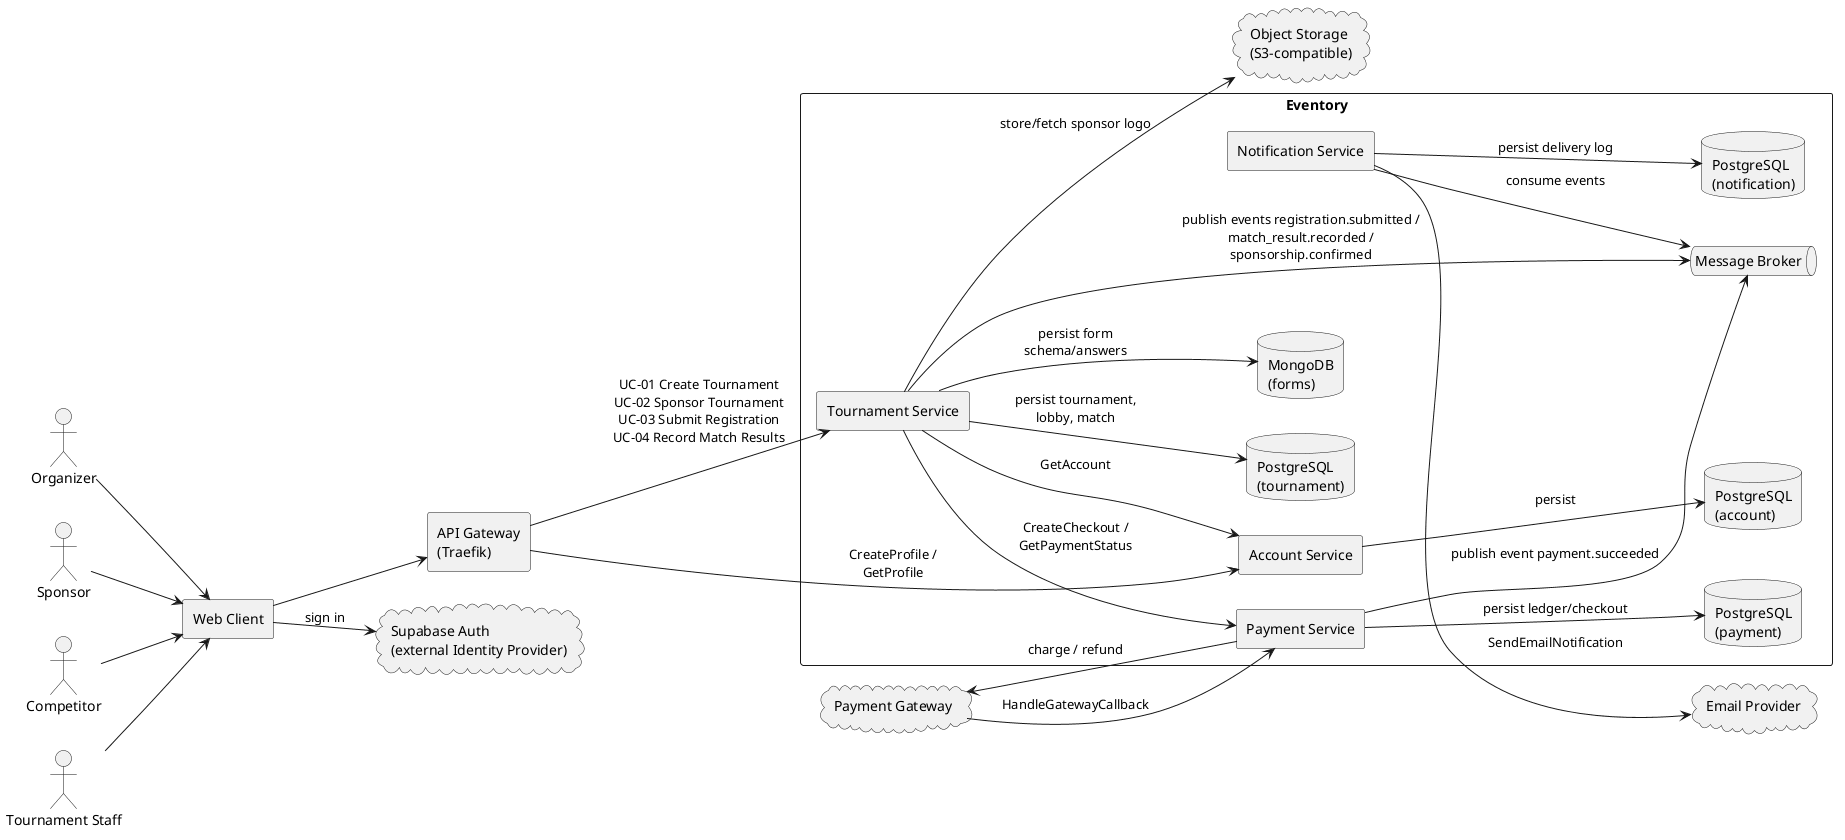
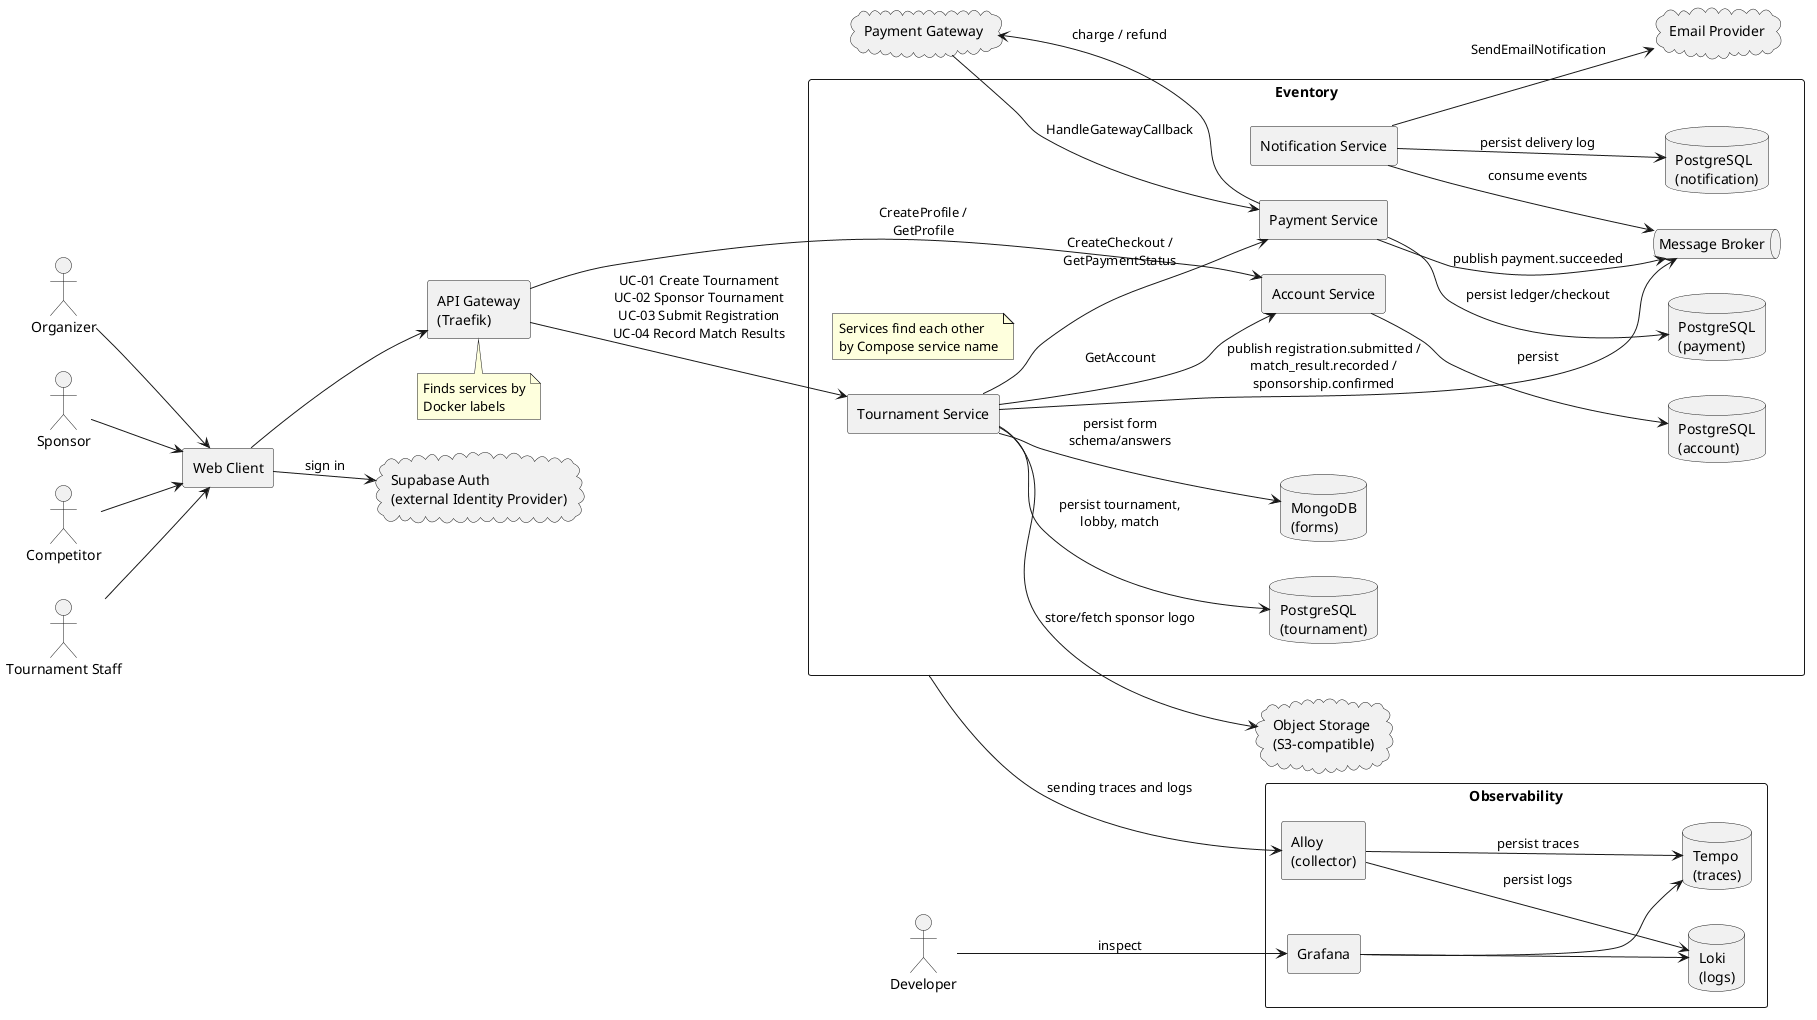
docs(arch): update architecture docs for Project Progress 3 (#250)
* docs(arch): docs(arch): add observability NFR and fix use case wording

* docs(arch): delete docs/arch/project-proposal-draft.md

* docs(arch): add ADR 12 and 13

* docs(arch): update architecture diagram

diff --git a/docs/arch/project-description.md b/docs/arch/project-description.md
@@ -16,7 +16,7 @@ Eventory
 
 Running a tournament today splits work across many tools: organizers post rules and brackets in chat apps or social media, collect entries with forms and spreadsheets, chase payments over bank transfer, and update results by hand. Competitors hunt for events, join teams, and submit forms in different places. Sponsors have no shared place to pick a package, pay, and see their support shown on the event.
 
-Eventory puts those flows on one platform. An organizer creates a tournament (with optional crowdfunding before open registration) and a registration form. A sponsor pledges a package, pays, and appears on the tournament page as funding progresses. A team captain locks the roster, pays any entry fee, and submits the registration. Match results are recorded on the same tournament so standings stay visible in one place.
+Eventory puts those flows on one platform. An organizer creates a tournament (with optional crowdfunding before open registration) and a registration form. A sponsor pledges a package, pays, and appears on the tournament page as funding progresses. A team captain locks the roster, pays any entry fee, and submits the registration. Match results are recorded in the same tournament so standings stay visible in one place.
 
 ## Target Customers
 
@@ -42,7 +42,7 @@ Eventory puts those flows on one platform. An organizer creates a tournament (wi
    - Optionally enables crowdfunding (funding goal, deadline, sponsorship packages/tiers).
    - Configures the custom registration form (fields such as text, dropdown, file upload).
    - May update crowdfunding and the form again while the tournament is still a draft.
-4. When ready, organizer opens the tournament for sponsorship and/or competitor registration.
+4. When ready, the organizer opens the tournament for sponsorship and/or competitor registration.
 
 **Postcondition**: A tournament exists with its registration form configured and is open according to the organizer’s chosen path.
 
@@ -67,7 +67,7 @@ Eventory puts those flows on one platform. An organizer creates a tournament (wi
 1. Sponsor opens the tournament page and reviews available sponsorship packages/tiers and funding progress.
 2. Sponsor selects a package, uploads brand logo (and link if required), and starts checkout.
 3. System processes payment via the payment gateway.
-4. On success, system records the pledge, updates funding progress, and shows the sponsor (e.g. logo) on the tournament page.
+4. On success, the system records the pledge, updates funding progress, and shows the sponsor (e.g. logo) on the tournament page.
 
 **Postcondition**: A confirmed sponsorship exists; funding progress and public sponsor display are updated.
 
@@ -93,7 +93,7 @@ Eventory puts those flows on one platform. An organizer creates a tournament (wi
    - **2a. Solo**: Competitor fills the tournament registration form and proceeds to pay entry fee if any.
    - **2b. Team**: Team members join the captain’s lobby via invite and fill in their individual registration forms. When the roster meets tournament size rules, the Team Captain locks the roster and pays the team entry fee if any.
 3. System processes payment when required (payment gateway).
-4. On success, system submits the registration to the organizer for review/acceptance and confirms to the competitor.
+4. On success, the system submits the registration to the organizer for review/acceptance and confirms to the competitor.
 
 **Postcondition**: A registration entry exists and is visible to the organizer for review.
 
@@ -194,3 +194,7 @@ FR14 is for Solo, FR15-18 for Team, and FR19-20 are shared.
 ### Performance
 
 - NFR8: Under normal course-demo load, the system shall complete competitor registration confirmation with p95 latency under 3 seconds, excluding external payment-gateway processing time.
+
+### Observability
+
+- NFR9: When a request passes through the API gateway, the system shall record one trace linking the gateway, service, and database spans, and the log entry for that request shall carry the same trace ID.

diff --git a/docs/arch/adrs/13_observability-stack.md b/docs/arch/adrs/13_observability-stack.md
@@ -1,0 +1,43 @@
+# ADR-13: Observability Stack
+
+## Context
+
+A request now crosses the gateway, several services, and their databases (ADR-01, ADR-05, ADR-07). When something is slow or fails, the symptom often appears in a different service than the cause, and per-container logs cannot show the whole path. The stack must fit single VM and should not tie our instrumentation to one backend.
+
+Options considered:
+
+- **Grafana stack (Loki, Tempo, Grafana, Alloy) with OpenTelemetry**: low memory use, one UI for logs and traces, trace-to-log links, OTLP is a standard. Several moving parts to configure.
+- **Elastic stack (Elasticsearch, Kibana, APM)**: mature and full-featured, but Elasticsearch needs far more memory than our VM budget allows.
+- **Jaeger and Prometheus with a separate log tool**: each tool is good alone, but logs and traces live in different UIs with no built-in correlation.
+- **Managed SaaS (Grafana Cloud, Datadog)**: no servers to run, but sends data off the host, adds an external dependency and a cost.
+- **Logs only**: simplest, but cannot show a request across services.
+
+## Decision
+
+Use the **Grafana stack with OpenTelemetry**.
+
+- Services emit OpenTelemetry traces to a collector (**Alloy**) that stores them in **Tempo**; Alloy also collects container logs into **Loki**. **Grafana** is the single UI for both.
+- Trace context travels with every call, whether HTTP, gRPC, or a broker message, so one request is one trace from the gateway down to the databases.
+- Log entries carry the trace ID, so a trace and its logs can be opened from each other.
+- Only Grafana is exposed outside the Compose network, behind its own login. Data is kept briefly (72 hours) to fit the VM.
+
+## Status
+
+Accepted
+
+## Consequences
+
+**Positive**
+
+- One trace shows gateway, services, and database queries for a request, and its log entries are one click away (NFR9).
+- OpenTelemetry keeps the services independent of Tempo and Loki.
+- Fits the memory budget and is simple to run locally.
+
+**Negative**
+
+- Four more containers to run and monitor in production.
+- No metrics or alerting yet, so problems are found by looking, not by being told.
+- Traces are not sampled, so storage grows with traffic.
+- Retention is only 72 hours.
+- Trace-to-log links only cover log lines written while handling a request.
+- Grafana is reachable from the internet, so its login is part of the attack surface.

diff --git a/docs/arch/adrs/12_service-discovery-and-orchestration.md b/docs/arch/adrs/12_service-discovery-and-orchestration.md
@@ -1,0 +1,37 @@
+# ADR-12: Service Discovery and Container Orchestration
+
+## Context
+
+Services must find each other and the API Gateway (ADR-05) must find every public service. Container IPs change on every deploy, so addresses cannot be hardcoded. Production is a single VM deployed by CI over SSH, and a five-person team must be able to operate it, so the orchestrator should be cheap to run and to learn.
+
+Options considered:
+
+- **Docker Compose on one host**: Docker's embedded DNS resolves service names, and Traefik's Docker provider builds routes from container labels. No extra component, and the same files run locally and in production. No scheduling across hosts, rolling updates, or failover.
+- **Docker Swarm**: a virtual IP per service with built-in balancing across replicas, plus rolling updates. Needs the Compose files converted to stack files and Traefik in Swarm mode. Its benefits need more than one node, which we do not have.
+- **Kubernetes**: self-healing, rolling updates, autoscaling, but too heavy to run and learn for one VM and this team.
+
+## Decision
+
+**Docker Compose on the single production host**.
+
+- **Internal discovery**: services call each other by Compose service name (for example `account:9091`), resolved by Docker's embedded DNS.
+- **Public discovery**: Traefik's Docker provider reads router labels from running containers; a new service is exposed by adding labels (ADR-05).
+
+Swarm and Kubernetes are deferred until we need more than one host or automatic failover.
+
+## Status
+
+Accepted
+
+## Consequences
+
+**Positive**
+
+- No extra infrastructure; names stay stable across redeploys.
+- A service can run several replicas (`docker compose up --scale`); Traefik adds each labeled container to the same service and balances HTTP across them.
+
+**Negative**
+
+- The host is a single point of failure; health checks and restart policies recover containers, not the machine.
+- A redeploy restarts containers and causes a short gap; retries (NFR7) cover it for read calls only.
+- Scaling a service balances HTTP traffic only: gRPC calls to Account stay on one replica, because a gRPC client keeps a single connection by default.

diff --git a/docs/arch/adrs/README.md b/docs/arch/adrs/README.md
@@ -21,3 +21,5 @@ Justify decisions with architecturally significant requirements (ASRs) and quali
 | [09 Object Storage](./09_object-storage.md) | Accepted |
 | [10 RabbitMQ as Message Broker](./10_rabbitmq-message-broker.md) | Accepted |
 | [11 SMTP for Notification Email Delivery](./11_smtp-email-delivery.md) | Accepted |
+| [12 Service Discovery and Container Orchestration](./12_service-discovery-and-orchestration.md) | Accepted |
+| [13 Observability Stack](./13_observability-stack.md) | Accepted |
